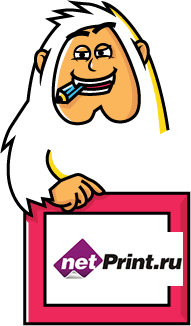
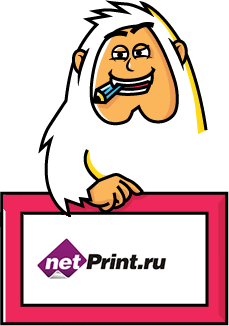
feat(stmGameEti): branding-up

diff --git a/src/stmGameEti/directives/stmGameEtiScreen/template.html b/src/stmGameEti/directives/stmGameEtiScreen/template.html
@@ -117,6 +117,12 @@
                         </div>
                     </div>                     
                         
+<!--                     <div class='b-character eti-print state_active'>
+                        <div  class='b-character-h state_show' >
+                            <a class="b-character-h__link" href="http://www.sotmarket.ru/partner/netprint/" target="_blank">netprint</a>
+                        </div>
+                    </div>  -->
+
                     <!--
                     <div data-hover  class='b-character eti-print anim_cubic' style="left:1928px;top:480px;">
                         <div data-target data-eti="etiNetPrint2" class='b-character-h'>
@@ -165,6 +171,8 @@
                     <div class="b-brending mod_netprint">
                         <a href="http://www.sotmarket.ru/partner/netprint/" class="b-brending__link" target="_blank">netprint</a>
                     </div>
+
+                    <div class="b-yeti-bank"></div>
 
                 </div>
             </div>

diff --git a/src/stmGameEti/directives/stmGameEtiScreen/b-gameEti.css b/src/stmGameEti/directives/stmGameEtiScreen/b-gameEti.css
@@ -217,9 +217,9 @@
 }
 
 .b-gameEti  .b-character.eti-print {
-    left: 2408px;
+    left: 2373px;
     top: 434px;
-    width: 167px;
+    width: 200px;
     height: 326px;
     z-index: 52;
 }
@@ -792,7 +792,7 @@
     position: absolute;
     height: 326px;
     right: 0;
-    left: 144px;
+    left: 179px;
     width: 60px;
     z-index: 10;
     background: url(asset/i/b-gameEti/decorations-tree.png) -198px -7300px no-repeat;
@@ -844,9 +844,23 @@
     z-index: 1010;
 }
 .b-brending.mod_netprint .b-brending__link {
-    width: 100%;
-    height: 100%;
-    top: 0;
-    left: 0;
+    width: 105px;
+    height: 120px;
+    top: 52px;
+    left: 12px;
+    -moz-transform: rotate(-10deg);
+    -o-transform: rotate(-10deg);
+    -webkit-transform: rotate(-10deg);
+    transform: rotate(-10deg);
 }
 
+/* b-yeti-bank */
+.b-yeti-bank {
+    background: url(asset/i/b-gameEti/bank.png) 0 0 no-repeat;
+    width: 65px;
+    height: 73px;
+    position: absolute;
+    z-index: 50;
+    left: 2586px;
+    top: 570px;
+}
